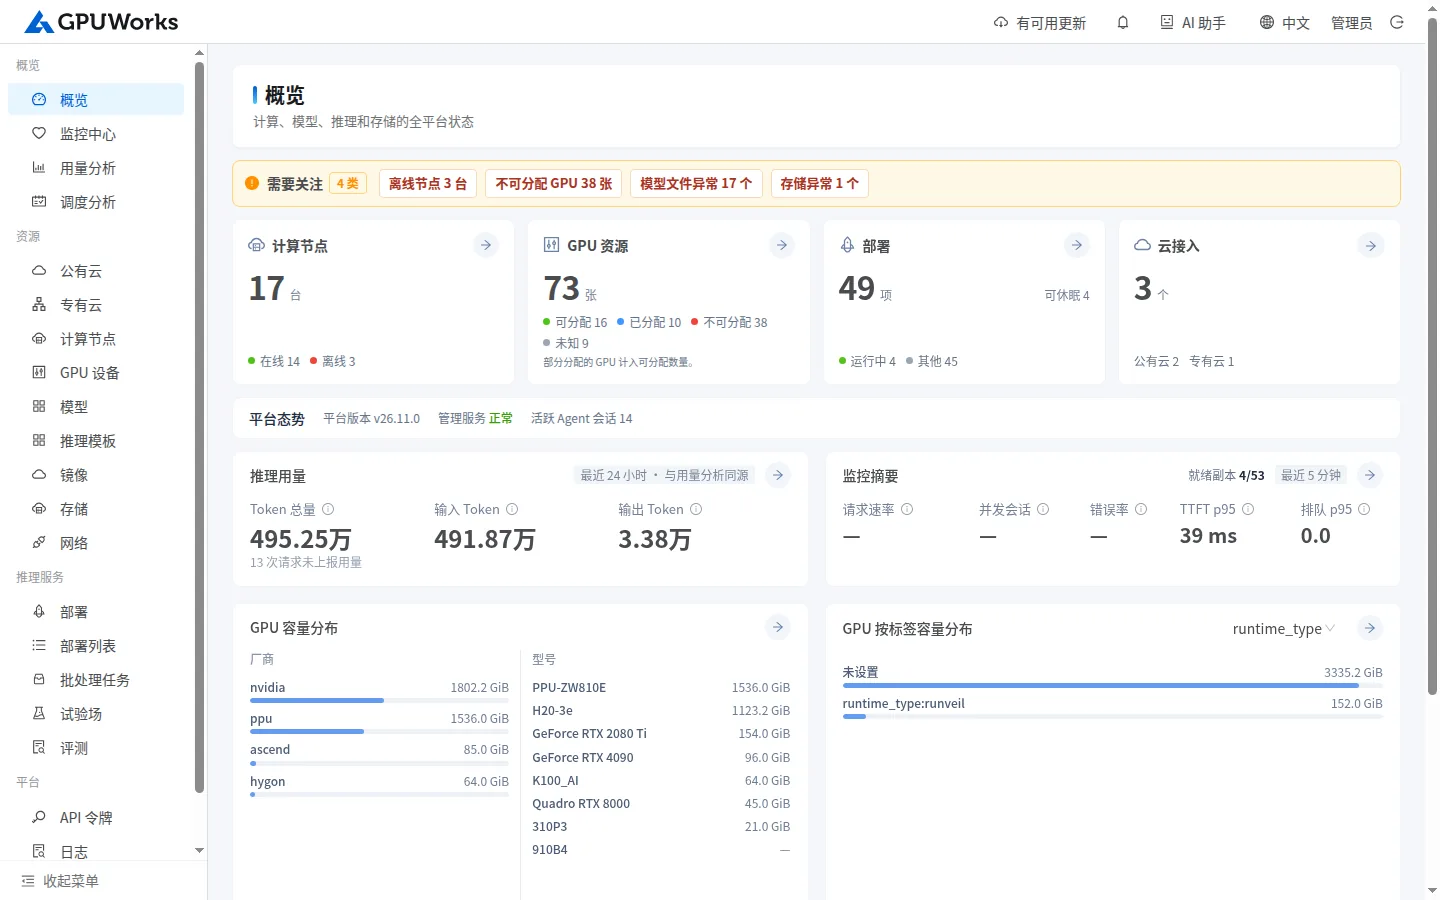
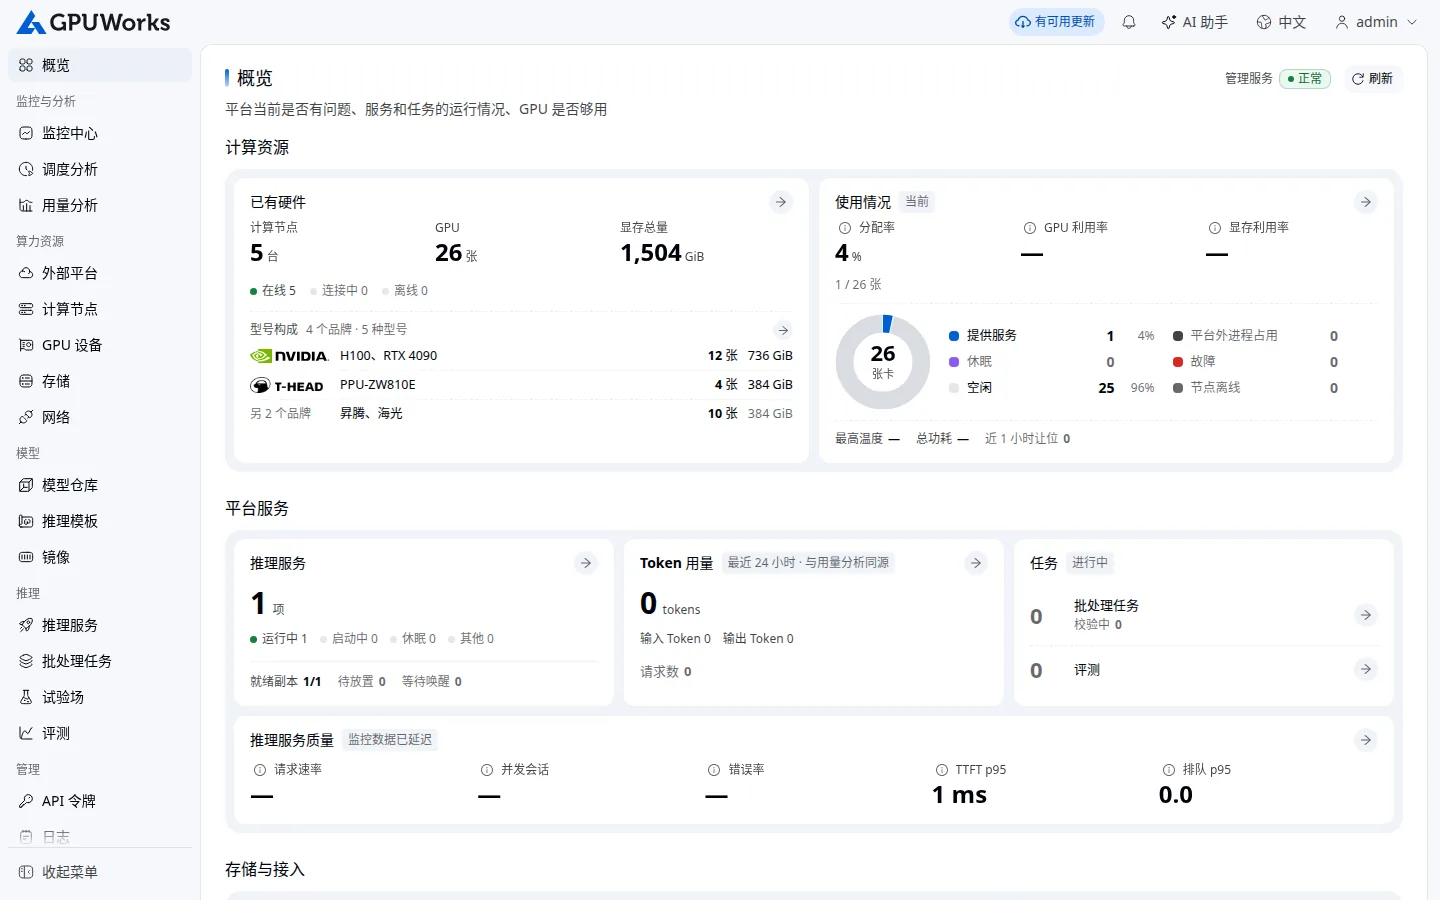
GWKS-512 Bring both READMEs in line with the current catalog, platforms, menus and support matrix.
The catalog totals were three weeks old (392 models / 1,235 specs; the seed
catalog now holds 404 models from 80 organizations and 1,295 specs), Slurm
was still announced as coming although clusters can be connected, and
DigitalOcean was missing from the cloud list. The quick start named a
"Deploy" menu entry that no longer exists; deploying starts from Inference
Services -> Create Deployment. The hardware table said PPU dGPU was Docker
only (it also runs on Kubernetes), called the AMD backend libvrocm instead
of rocm-slicing-shim, and had no row for Kunlunxin, which the highlights
already listed. The English size claim now matches the Chinese one.

The overview and model catalog screenshots are retaken from the current
console in both languages, on a local server with five simulated nodes, so
the overview caption no longer says production. The other eight screenshot
pairs and both tour GIFs still show the previous sidebar; they need the
real environments they were taken on and are not changed here.

diff --git a/README.md b/README.md
@@ -24,27 +24,28 @@
 </p>
 
 GPUWorks is an ultra-lightweight GPU management and Model-as-a-Service (MaaS) platform. The whole control plane, web
-UI included, is a 40 MB download. Join your own GPU servers, rented cloud instances or containers, or a Mac with one
-command, pick a model, and GPUWorks estimates the memory it needs, picks the GPUs, starts vLLM, SGLang or any engine
-an inference template defines (Strata, ninfer, …), and serves it behind one OpenAI-compatible endpoint.
+UI included, is a 40 MB download. Join your own GPU servers, rented cloud instances or containers, or a Mac
+with one command, pick a model, and GPUWorks estimates the memory it needs, picks the GPUs, starts vLLM, SGLang or any
+engine an inference template defines (Strata, ninfer, …), and serves it behind one OpenAI-compatible endpoint.
 NVIDIA, AMD Instinct and Ryzen AI Max, Huawei Ascend, T-Head PPU, Hygon DCU and Apple Silicon run side by side in the
 same cluster.
 
-The pool of capacity is the core: bare-metal servers, public cloud instances, private cloud VMs and existing
-Kubernetes clusters today, with Slurm partitions joining next. On top of it, GPUWorks serves models now and will run
-fine-tuning and training jobs on the same accelerators.
+The pool of capacity is the core: bare-metal servers, public cloud instances, private cloud VMs, and existing
+Kubernetes and Slurm clusters. On top of it, GPUWorks serves models now and will run fine-tuning and training jobs
+on the same accelerators.
 
 ## Highlights
 
-- **Verified model × accelerator combinations deploy in one click.** The built-in catalog ships 1,235 launch specs
-  for 392 models: image, engine, flags and pinned weight revisions for each GPU type. The combinations we have run
+- **Verified model × accelerator combinations deploy in one click.** The built-in catalog ships 1,295 launch specs
+  for 404 models: image, engine, flags and pinned weight revisions for each GPU type. The combinations we have run
   on real NVIDIA, AMD, Ascend, PPU and Apple hardware come with launch settings that are known to work, so you pick a
   model and press deploy instead of hunting for flags. Qwen, DeepSeek, GLM, Kimi, MiniMax, Llama, Gemma, gpt-oss,
   plus embedding, rerank, speech, image and video models.
 - **Heterogeneous accelerators, one scheduler.** NVIDIA, AMD, Ascend, PPU, Hygon, Kunlunxin and Apple Silicon nodes join
   the same cluster; the scheduler matches each deployment to hardware its launch spec supports.
-- **Public and private cloud in one pool.** Sync instances from RunPod, CompShare, AutoDL, Vast.ai and Alibaba Cloud,
-  or VMs from ZStack Cloud, install the agent in one click, and schedule them together with your own servers.
+- **Public and private cloud in one pool.** Sync instances from RunPod, CompShare, AutoDL, Vast.ai, DigitalOcean and
+  Alibaba Cloud, or VMs from ZStack Cloud, install the agent in one click, and schedule them together with your own
+  servers.
 - **Joins an existing Kubernetes cluster and coexists with its other workloads.** Apply one manifest to connect a
   cluster; each node's accelerator is detected automatically, so one cluster entry can hold nodes of several vendors.
   GPUWorks keeps the device plugin the cluster already runs and works with HAMi and ACK GPU sharing. It
@@ -93,9 +94,9 @@ host:
 curl -fsSL http://<server>:8800/install.sh | sh -s -- --server http://<server>:8800 --token <node-token>
 ```
 
-**3. Deploy a model.** Open **Deploy**, pick a model such as `Qwen/Qwen3-1.7B` and a recommended inference template,
-review the configuration evaluation (memory estimate and placement), and deploy. Then create an inference token under
-**API Tokens** and call the model by its public model name:
+**3. Deploy a model.** Open **Inference Services → Create Deployment**, pick a model such as `Qwen/Qwen3-1.7B` and a
+recommended inference template, review the configuration evaluation (memory estimate and placement), and deploy. Then
+create an inference token under **API Tokens** and call the model by its public model name:
 
 ```bash
 curl http://<server>:8800/v1/chat/completions \
@@ -127,16 +128,17 @@ Install the GPUWorks control plane on this host and verify it.
 | Accelerator | Whole-GPU deploy | dGPU (shared GPU) | Sleep/wake | Multi-node | PD disaggregation |
 |---|---|---|---|---|---|
 | **NVIDIA** (CUDA) | ✅ Docker, containerd or runveil (built-in rootless runtime) | ✅ memory quota at MiB granularity | ✅ vLLM | ✅ | ✅ vLLM + NIXL |
-| **AMD** (ROCm: Instinct MI300 series, Ryzen AI Max) | ✅ Docker, containerd or runveil (built-in rootless runtime) | 🧪 libvrocm memory quota; tested on MI300X under Docker/runveil | ✅ vLLM | ✅ vLLM | ✅ vLLM + NIXL |
+| **AMD** (ROCm: Instinct MI300 series, Ryzen AI Max) | ✅ Docker, containerd or runveil (built-in rootless runtime) | 🧪 rocm-slicing-shim memory quota; tested on MI300X under Docker/runveil | ✅ vLLM | ✅ vLLM | ✅ vLLM + NIXL |
 | **Huawei Ascend** (CANN) | ✅ Docker, containerd or runveil (built-in rootless runtime) | 🧪 vcann-rt memory quota; requires device-share permissions and a per-GPU probe | ✅ vLLM-Ascend | ✅ | ✅ vLLM-Ascend + Mooncake |
-| **T-Head PPU** (HGGC) | ✅ Docker, containerd or runveil (built-in rootless runtime) | 🧪 ppu-slicing-shim memory quota and weighted QoS; Docker only | ✅ vLLM | ✅ | ✅ SGLang + Mooncake (same node or over RDMA), vLLM + Mooncake (RDMA) |
+| **T-Head PPU** (HGGC) | ✅ Docker, containerd or runveil (built-in rootless runtime) | 🧪 ppu-slicing-shim memory quota and weighted QoS; Docker or Kubernetes | ✅ vLLM | ✅ | ✅ SGLang + Mooncake (same node or over RDMA), vLLM + Mooncake (RDMA) |
 | **Hygon DCU** (DTK) | ✅ Docker, containerd or runveil (built-in rootless runtime) | 🧪 Z100 / K100_AI / BW native vdev; Docker or runveil | ✅ vLLM | ✅ | ✅ vLLM 0.21 + Mooncake |
+| **Kunlunxin** (XRE: P800 PCIe) | ✅ Docker or containerd | — | — | — | — |
 | **Apple Silicon** (M1–M5, macOS 15+) | ✅ vllm-metal, MLX, llama.cpp as native processes | — | — | — | — |
 
 ✅ verified on real hardware · 🧪 experimental · — not supported or not validated. Sleep/wake beyond NVIDIA is
 verified on Ascend 910C, PPU ZW810E, Hygon K100 and AMD MI300X; the tested versions and limits are in
 [choosing features](docs-en/explanation/choosing-features.md#sleepwake-models-take-turns-on-one-gpu).
-GPUs are detected with the vendor CLIs (`nvidia-smi`, `npu-smi`, `ppu-smi`, `hy-smi`) or, for AMD, amdgpu sysfs and KFD, so there is no NVML or cgo
+GPUs are detected with the vendor CLIs (`nvidia-smi`, `npu-smi`, `ppu-smi`, `hy-smi`, `xpu-smi`) or, for AMD, amdgpu sysfs and KFD, so there is no NVML or cgo
 dependency. Per-combination status lives in the [support matrix](docs-en/reference/support-matrix.md) and the
 [Ascend matrix](docs-en/reference/ascend-support-matrix.md).
 
@@ -157,15 +159,15 @@ engine and accelerator. The deploy page recommends the specs that match the mode
 | Speech | Qwen3-ASR, Whisper large-v3, Qwen3-TTS, GLM-TTS, Voxtral, FishAudio S2-Pro |
 | Image / video | Qwen-Image, GLM-Image, Stable Diffusion 3.5, Wan 2.1 / 2.2, LTX-2.5, Cosmos3 |
 
-Catalog totals: 392 models from 77 organizations, 1,235 launch specs (745 NVIDIA, 216 PPU, 209 Ascend, 41 Hygon,
-15 AMD, 9 Apple). Models outside the catalog can be registered from Hugging Face, ModelScope, a local directory, NFS or an
-HTTP file server and deployed with your own arguments.
+Catalog totals: 404 models from 80 organizations, 1,295 launch specs (780 NVIDIA, 218 Ascend, 217 PPU, 42 Hygon,
+18 AMD, 18 Apple, 2 Kunlunxin). Models outside the catalog can be registered from Hugging Face, ModelScope, a local
+directory, NFS or an HTTP file server and deployed with your own arguments.
 
 ## Screenshots
 
 | | |
 |---|---|
-| ![Overview](docs/assets/screenshots/readme/overview.webp) **Overview** of a production cluster with NVIDIA, PPU, Ascend and Hygon GPUs | ![Scheduling](docs/assets/screenshots/readme/scheduling.webp) **Scheduling analysis**: models taking turns on the same GPUs, card by card |
+| ![Overview](docs/assets/screenshots/readme/overview.webp) **Overview** of a cluster with NVIDIA, PPU, Ascend and Hygon GPUs | ![Scheduling](docs/assets/screenshots/readme/scheduling.webp) **Scheduling analysis**: models taking turns on the same GPUs, card by card |
 | ![Monitor](docs/assets/screenshots/readme/monitor.webp) **Monitoring** in production: latency, request shapes, concurrency and KV cache over 7 days | ![Usage](docs/assets/screenshots/readme/usage.webp) **Usage analytics**: tokens by hour, API key and model |
 | ![PD](docs/assets/screenshots/readme/pd.webp) **PD disaggregation** on Ascend 910C: KV hand-off, latency breakdown, requests in flight | ![Health](docs/assets/screenshots/readme/health-ai.webp) **GPU health checks**, diagnosed by the AI assistant |
 | ![Network](docs/assets/screenshots/readme/network.webp) **Network test**: HCCS card-to-card reachability matrix | ![Benchmark](docs/assets/screenshots/readme/benchmark.webp) **Benchmark** report: throughput, TTFT, latency |
